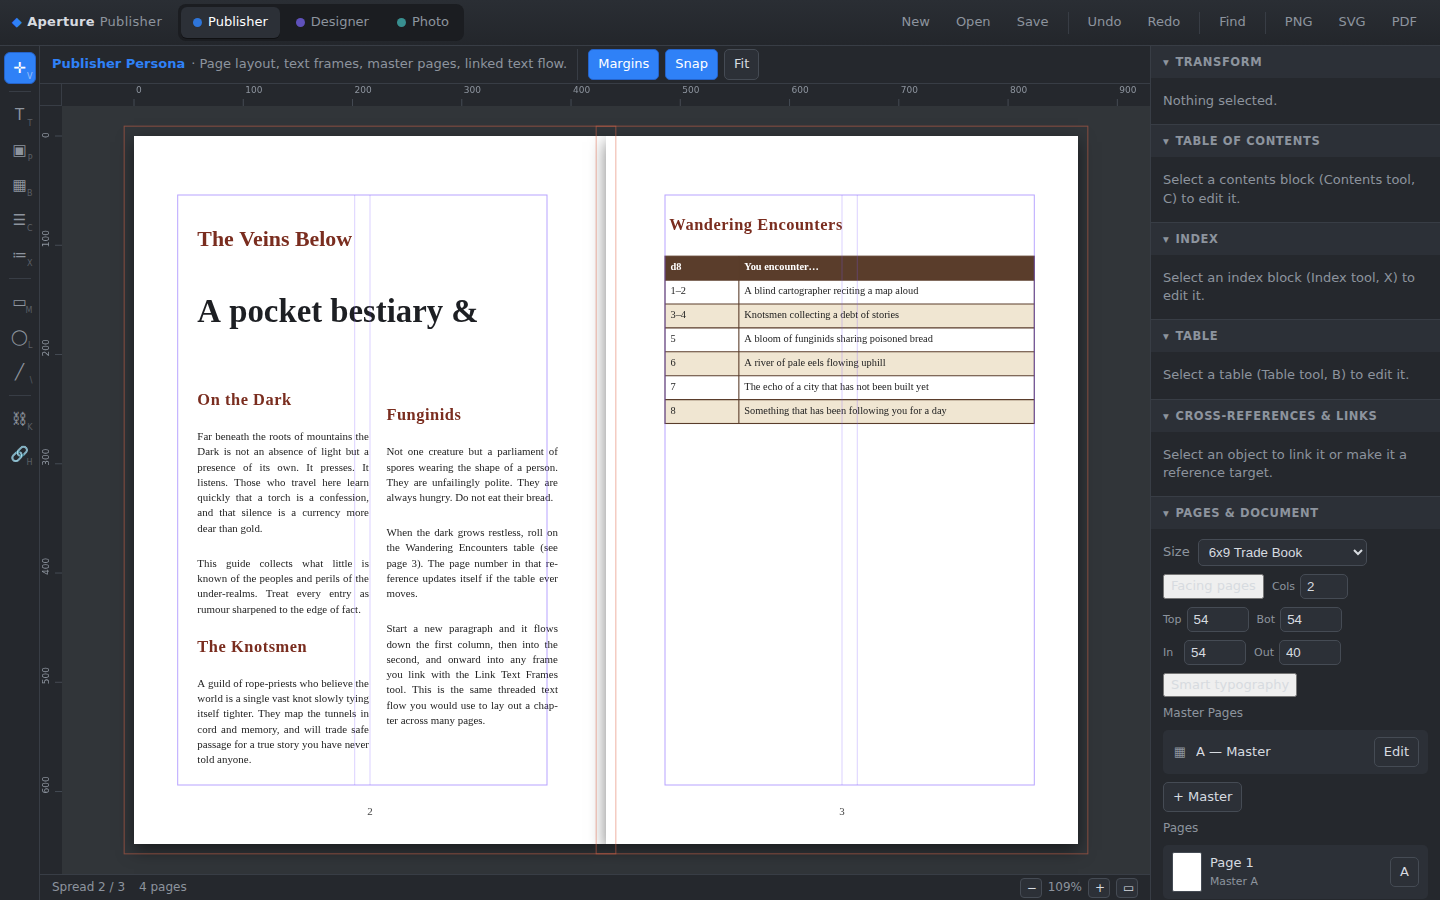
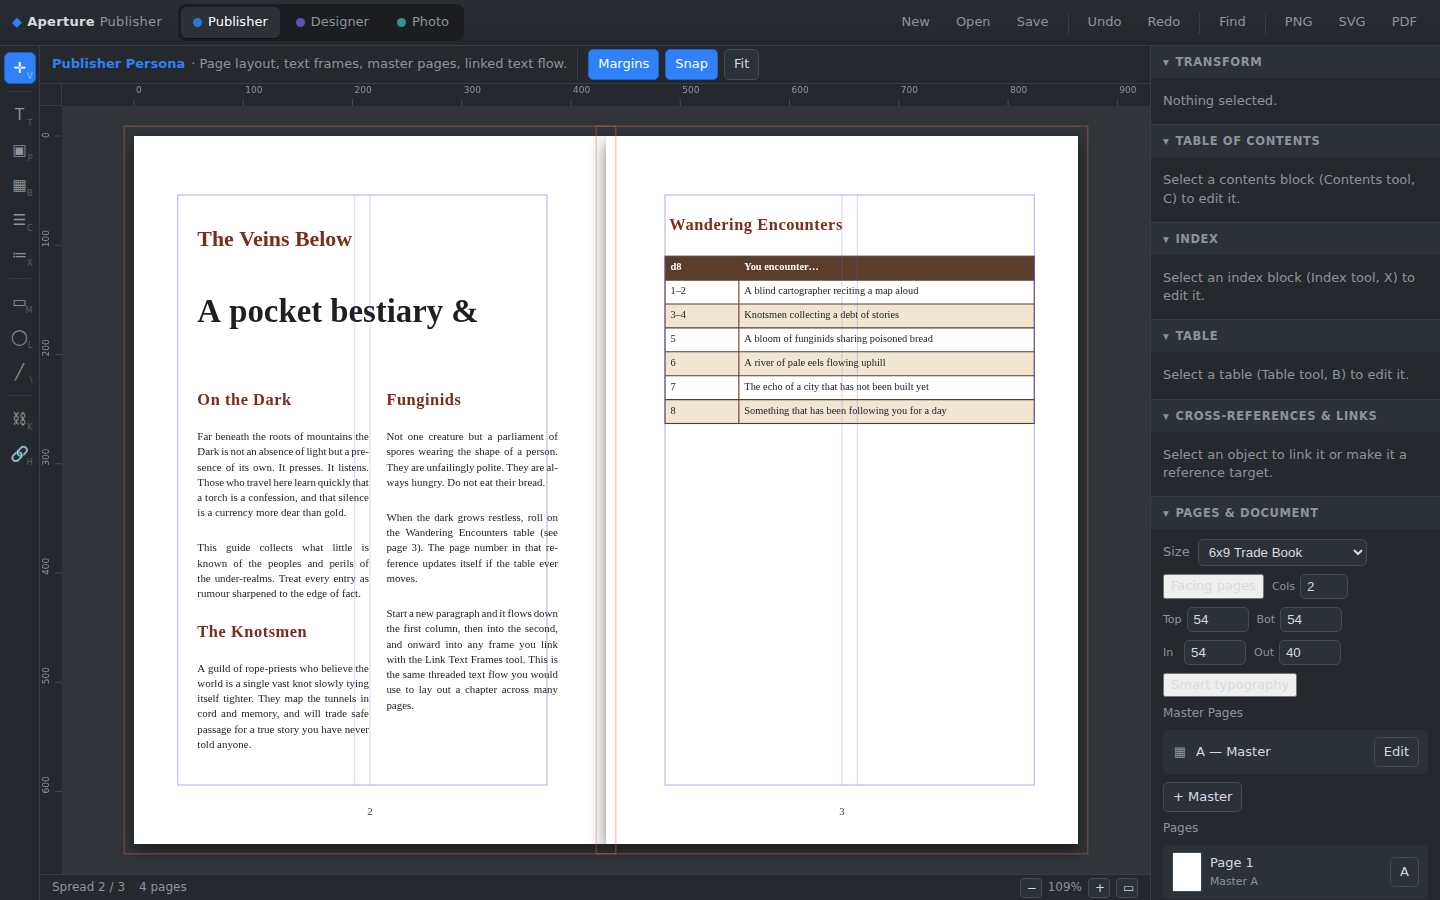
Knuth-Plass optimal line breaking for justified text
Replace the greedy line-at-a-time breaker with the Knuth-Plass algorithm
(TeX's paragraph breaker) for justified paragraphs:

- Model each paragraph as boxes / interword glue (with stretch & shrink) /
  penalties, offering hyphenation points as penalised optional breaks.
- Dynamic programming over feasible breakpoints with active nodes, minimising
  total demerits: badness (100*|r|^3 from the adjustment ratio) + line/hyphen
  penalties + double-hyphen and fitness-class demerits. An infinite final glue
  leaves the last line naturally ragged; an emergency path guarantees a result
  (never drops text) on unbreakable input.
- New pre-break-then-pour architecture: optimal lines are computed once at the
  head column measure, then flowed across columns/frames by height (uniform
  column width assumed, as columns within a frame always match).
- Ragged (left/center/right) and very long paragraphs use a fast greedy fallback
  producing the same line shape.

Applied everywhere (screen + PNG/SVG/PDF). Verified in Chromium: letter-for-
letter no text loss, ~2ms for the sample body, TOC/index still detected,
cross-frame overflow, greedy fallback, first-line indent, and all exports.

Claude-Session: https://claude.ai/code/session_01V9Hz9qwSWaNTftBnySXKLH

Changed region(s): [[0.125, 0.4356, 0.4062, 0.84]]

diff --git a/publisher/src/textlayout.js b/publisher/src/textlayout.js
@@ -208,92 +208,269 @@ function buildLine(words, from, carry, style, colW, hyphenate) {
   return { items, natural, spaceW, nextFrom: i, carry: newCarry, endsParagraph: i >= words.length && !newCarry };
 }
 
-// Cap on how far a justified space may stretch (× the natural space width),
-// so long thin columns don't develop rivers.
-const JUSTIFY_MAX_SPACE = 3.6;
-
-function positionLine(line, style, colW, isLast) {
-  const { items, natural, spaceW } = line;
-  const n = items.length;
-  let startX = 0, gap = spaceW;
-  if (style.align === 'center') startX = (colW - natural) / 2;
-  else if (style.align === 'right') startX = colW - natural;
-  else if (style.align === 'justify' && !isLast && n > 1) {
-    gap = spaceW + (colW - natural) / (n - 1);
-    if (gap > spaceW * JUSTIFY_MAX_SPACE) gap = spaceW * JUSTIFY_MAX_SPACE; // leave slightly short rather than gappy
-  }
-  const tokens = [];
-  let x = startX;
-  for (let k = 0; k < n; k++) { tokens.push({ text: items[k].text, x }); x += items[k].w + gap; }
-  return tokens;
+// Split a word into hyphenation fragments (they re-join to the word).
+function fragmentsOf(word, hyphenate) {
+  if (!(hyphenate && word.length >= 6 && /^[A-Za-z]+$/.test(word))) return [word];
+  const pts = hyphenatePoints(word);
+  if (!pts.length) return [word];
+  const frags = []; let prev = 0;
+  for (const p of pts) { frags.push(word.slice(prev, p)); prev = p; }
+  frags.push(word.slice(prev));
+  return frags;
 }
 
-// Lay out a whole thread chain (head holds the story text). Returns
-// { byFrame: { [id]: { lines } }, overflow: bool }.
+/* ---------- Knuth–Plass optimal line breaking ---------- */
+// Minimises total demerits over the whole paragraph (badness³ + penalties +
+// double-hyphen and fitness-class demerits) via DP over feasible breakpoints,
+// with hyphenation points offered as penalised optional breaks.
+const KPC = {
+  linePenalty: 10, hyphenPenalty: 50, doubleHyphen: 3000, fitnessDemerit: 100,
+  INF: 1e7, INF_BAD: 1e5, stretchRatio: 0.5, shrinkRatio: 1 / 3,
+};
+
+function knuthPlass(words, style, Lfun, hyphenate) {
+  setMeasureStyle(style);
+  const spaceW = mctx.measureText(' ').width;
+  const spaceY = spaceW * KPC.stretchRatio;
+  const spaceZ = spaceW * KPC.shrinkRatio;
+  const hyphenW = mctx.measureText('-').width;
+  const measure = (t) => mctx.measureText(t).width;
+
+  // sequence of boxes / glue / penalties
+  const seq = [];
+  words.forEach((word, j) => {
+    if (j > 0) seq.push({ t: 'glue', w: spaceW, y: spaceY, z: spaceZ });
+    fragmentsOf(word, hyphenate).forEach((frag, k) => {
+      if (k > 0) seq.push({ t: 'pen', w: hyphenW, p: KPC.hyphenPenalty, flag: true });
+      seq.push({ t: 'box', w: measure(frag), text: frag });
+    });
+  });
+  seq.push({ t: 'glue', w: 0, y: KPC.INF, z: 0 });   // final glue fills the last line
+  seq.push({ t: 'pen', w: 0, p: -KPC.INF, flag: false }); // forced break
+
+  const N = seq.length;
+  // prefix sums before item i (penalty width excluded — added only when broken)
+  const pW = [0], pY = [0], pZ = [0];
+  for (let i = 0; i < N; i++) {
+    const it = seq[i];
+    pW.push(pW[i] + (it.t === 'pen' ? 0 : it.w));
+    pY.push(pY[i] + (it.t === 'glue' ? it.y : 0));
+    pZ.push(pZ[i] + (it.t === 'glue' ? it.z : 0));
+  }
+  const isBreak = (i) => {
+    const it = seq[i];
+    if (it.t === 'pen') return it.p < KPC.INF;
+    if (it.t === 'glue') return i > 0 && seq[i - 1].t === 'box';
+    return false;
+  };
+  const fitnessOf = (r) => (r < -0.5 ? 0 : r < 0.5 ? 1 : r < 1 ? 2 : 3);
+
+  let active = [{ index: -1, line: 0, fitness: 1, demerits: 0, prev: null }];
+  let finalNode = null;
+
+  for (let b = 0; b < N; b++) {
+    if (!isBreak(b)) continue;
+    const it = seq[b];
+    const forced = it.t === 'pen' && it.p <= -KPC.INF;
+    const best = [null, null, null, null];
+    const bestD = [Infinity, Infinity, Infinity, Infinity];
+    let emergency = null, emergencyD = Infinity;
+    const survivors = [];
+
+    for (const a of active) {
+      const start = a.index + 1;
+      const endW = pW[b] + (it.t === 'pen' ? it.w : 0);
+      const lineW = endW - pW[start];
+      const lineY = pY[b] - pY[start];
+      const lineZ = pZ[b] - pZ[start];
+      const L = Lfun(a.line);
+      let r;
+      if (lineW < L) r = lineY > 0 ? (L - lineW) / lineY : KPC.INF;
+      else if (lineW > L) r = lineZ > 0 ? (L - lineW) / lineZ : -KPC.INF;
+      else r = 0;
+
+      if (r < -1 && !forced) {
+        // line too long even here — this node dies; remember as emergency
+        const base = KPC.linePenalty + KPC.INF_BAD;
+        const total = a.demerits + base * base;
+        if (total < emergencyD) { emergencyD = total; emergency = { index: b, line: a.line + 1, fitness: 1, demerits: total, prev: a }; }
+        continue; // do not keep `a`, do not spawn a normal candidate
+      }
+      if (!forced) survivors.push(a); // feasible so far — keep for later breakpoints
+
+      const badness = r < -1 ? KPC.INF_BAD : Math.min(KPC.INF_BAD, 100 * Math.abs(r) ** 3);
+      const base = KPC.linePenalty + badness;
+      const p = it.t === 'pen' ? it.p : 0;
+      let d;
+      if (forced) d = base * base;
+      else if (p >= 0) d = base * base + p * p;
+      else d = base * base - p * p;
+      if (it.flag && a.index >= 0 && seq[a.index].flag) d += KPC.doubleHyphen;
+      const fc = fitnessOf(r);
+      if (Math.abs(fc - a.fitness) > 1) d += KPC.fitnessDemerit;
+      const total = a.demerits + d;
+      if (total < bestD[fc]) { bestD[fc] = total; best[fc] = { index: b, line: a.line + 1, fitness: fc, demerits: total, prev: a }; }
+    }
+
+    if (forced) {
+      let bn = null;
+      for (let fc = 0; fc < 4; fc++) if (best[fc] && (!bn || best[fc].demerits < bn.demerits)) bn = best[fc];
+      finalNode = bn || emergency;
+      break;
+    }
+    for (let fc = 0; fc < 4; fc++) if (best[fc]) survivors.push(best[fc]);
+    active = survivors.length ? survivors : (emergency ? [emergency] : active);
+  }
+
+  // backtrack to breakpoint indices
+  const breaks = [];
+  for (let node = finalNode; node && node.index >= 0; node = node.prev) breaks.unshift(node.index);
+
+  // build lines
+  const lines = [];
+  let start = -1, lineNo = 0;
+  for (const b of breaks) {
+    const items = [];
+    let pendingSpace = false;
+    for (let i = start + 1; i < b; i++) {
+      const it = seq[i];
+      if (it.t === 'glue') pendingSpace = true;
+      else if (it.t === 'box') {
+        if (items.length && !pendingSpace) { const last = items[items.length - 1]; last.text += it.text; last.w += it.w; }
+        else items.push({ text: it.text, w: it.w, space: pendingSpace });
+        pendingSpace = false;
+      }
+    }
+    if (seq[b].t === 'pen' && seq[b].p > -KPC.INF && items.length) { const last = items[items.length - 1]; last.text += '-'; last.w += hyphenW; }
+    // adjustment ratio for this line
+    const startIdx = start + 1;
+    const endW = pW[b] + (seq[b].t === 'pen' ? seq[b].w : 0);
+    const lineW = endW - pW[startIdx];
+    const lineY = pY[b] - pY[startIdx], lineZ = pZ[b] - pZ[startIdx];
+    const L = Lfun(lineNo);
+    let r;
+    if (lineW < L) r = lineY > 0 ? (L - lineW) / lineY : 0;
+    else if (lineW > L) r = lineZ > 0 ? (L - lineW) / lineZ : 0;
+    else r = 0;
+    lines.push({ items, r, spaceW, spaceY, spaceZ, isLast: b === breaks[breaks.length - 1] });
+    start = b; lineNo++;
+  }
+  return lines;
+}
+
+// Greedy fallback (ragged text and over-long paragraphs), producing the same
+// line shape as knuthPlass so downstream positioning is uniform.
+function greedyBreak(words, style, Lfun, hyphenate) {
+  setMeasureStyle(style);
+  const spaceW = mctx.measureText(' ').width;
+  const out = [];
+  let wIndex = 0, carry = null;
+  while (wIndex < words.length || carry != null) {
+    const L = Lfun(out.length);
+    const line = buildLine(words, wIndex, carry, style, L, hyphenate);
+    const items = line.items.map((it, i) => ({ text: it.text, w: it.w, space: i > 0 }));
+    carry = line.carry; wIndex = line.nextFrom;
+    const isLast = line.endsParagraph;
+    out.push({ items, r: null, spaceW, isLast });
+    if (isLast) break;
+    if (!line.items.length && carry == null) break; // safety
+  }
+  return out;
+}
+
+// Break one paragraph into positioned lines (tokens x relative to the column,
+// including first-line indent). colW is the (uniform) column measure.
+function breakParagraph(para, colW, indent, hyphenate) {
+  const style = para.style;
+  const words = para.text.length ? para.text.split(/\s+/).filter(Boolean) : [];
+  const lineH = style.size * style.lineHeight;
+  const common = { lineH, size: style.size, font: fontString(style), color: style.color, tracking: style.tracking || 0 };
+  if (!words.length) return [{ spacer: true, ...common }];
+
+  const Lfun = (ln) => Math.max(1, colW - (ln === 0 ? indent : 0));
+  const justify = style.align === 'justify' && words.length <= 500;
+  const lines = justify ? knuthPlass(words, style, Lfun, hyphenate) : greedyBreak(words, style, Lfun, hyphenate);
+
+  setMeasureStyle(style);
+  const spaceW = mctx.measureText(' ').width;
+  return lines.map((ln, idx) => {
+    const off = idx === 0 ? indent : 0;
+    const tokens = [];
+    if (justify) {
+      const r = ln.r || 0;
+      let x = off;
+      for (const it of ln.items) {
+        if (it.space) x += spaceW + (r >= 0 ? r * ln.spaceY : r * ln.spaceZ);
+        tokens.push({ text: it.text, x }); x += it.w;
+      }
+    } else {
+      const natural = ln.items.reduce((s, it) => s + it.w + (it.space ? spaceW : 0), 0);
+      const L = Lfun(idx);
+      let x = off + (style.align === 'center' ? (L - natural) / 2 : style.align === 'right' ? (L - natural) : 0);
+      for (const it of ln.items) { if (it.space) x += spaceW; tokens.push({ text: it.text, x }); x += it.w; }
+    }
+    return { tokens, ...common, isLast: ln.isLast };
+  });
+}
+
+// Lay out a whole thread chain (head holds the story text). Optimised lines are
+// computed once at the head's column measure, then poured across the chain by
+// height. Returns { byFrame: { [id]: { lines } }, overflow: bool }.
 export function layoutStory(chain, doc) {
   const head = chain[0];
   const base = frameBaseStyle(head, doc);
   const anchorMap = buildAnchorPageMap(doc);
   const raw = resolveRefs(head.text || '', anchorMap).split('\n');
   const paragraphs = raw.map((l) => resolveParagraph(l, base, doc));
+  const hyphenate = head.hyphenate !== false;
+  const headColW = columnsOf(head)[0].w;
 
   const byFrame = {};
-  const hyphenate = head.hyphenate !== false;
-  let pIndex = 0, wIndex = 0, carry = null;
+  for (const frame of chain) byFrame[frame.id] = { lines: [] };
+
+  // pour cursor across frames/columns
+  let fi = 0, ci = 0;
+  let cols = columnsOf(chain[0]);
+  let cursorY = cols.length ? cols[0].y : 0;
   let overflow = false;
 
-  for (let f = 0; f < chain.length; f++) {
-    const frame = chain[f];
-    const cols = columnsOf(frame);
-    const lines = [];
-    byFrame[frame.id] = { lines };
-
-    for (let c = 0; c < cols.length && pIndex < paragraphs.length; c++) {
-      const col = cols[c];
-      let cursorY = col.y;
-      while (pIndex < paragraphs.length) {
-        const para = paragraphs[pIndex];
-        const style = para.style;
-        const words = para.text.length ? para.text.split(/\s+/).filter(Boolean) : [];
-        const lineH = style.size * style.lineHeight;
-
-        if (words.length === 0) { // blank line
-          if (cursorY + lineH > col.y + col.h) break;
-          cursorY += lineH;
-          pIndex++; wIndex = 0; carry = null;
-          continue;
-        }
-
-        const isParaStart = wIndex === 0 && carry == null;
-        const indent = isParaStart ? (style.firstLineIndent || 0) : 0;
-        const lineColW = Math.max(1, col.w - indent);
-        const line = buildLine(words, wIndex, carry, style, lineColW, hyphenate);
-        if (cursorY + lineH > col.y + col.h) break; // column full; carry/wIndex preserved for next column
-        let tokens = positionLine(line, style, lineColW, line.endsParagraph);
-        if (indent) tokens = tokens.map((t) => ({ text: t.text, x: t.x + indent }));
-        const baseline = cursorY + style.size * 0.82;
-        const placed = {
-          tokens, baseline, x: col.x, font: fontString(style),
-          color: style.color, tracking: style.tracking || 0,
-        };
-        // Tag the first line of a heading paragraph so the TOC can find it.
-        if (isParaStart && para.level) placed.heading = { level: para.level, text: para.text };
-        // Tag index marks to the first line so the index can find their page.
-        if (isParaStart && para.indexTerms && para.indexTerms.length) placed.indexTerms = para.indexTerms;
-        lines.push(placed);
-        cursorY += lineH;
-        carry = line.carry;
-
-        if (line.endsParagraph) {
-          cursorY += style.spaceAfter || 0;
-          pIndex++; wIndex = 0; carry = null;
-        } else {
-          wIndex = line.nextFrom;
-        }
+  const placeLine = (ln) => {
+    while (fi < chain.length) {
+      cols = columnsOf(chain[fi]);
+      if (ci >= cols.length) { fi++; ci = 0; if (fi < chain.length) cursorY = columnsOf(chain[fi])[0].y; continue; }
+      const col = cols[ci];
+      if (cursorY + ln.lineH > col.y + col.h) {
+        ci++;
+        if (ci < cols.length) cursorY = cols[ci].y;
+        else { fi++; ci = 0; if (fi < chain.length) cursorY = columnsOf(chain[fi])[0].y; }
+        continue;
       }
+      if (!ln.spacer) {
+        const placed = {
+          tokens: ln.tokens, baseline: cursorY + ln.size * 0.82, x: col.x,
+          font: ln.font, color: ln.color, tracking: ln.tracking,
+        };
+        if (ln.heading) placed.heading = ln.heading;
+        if (ln.indexTerms) placed.indexTerms = ln.indexTerms;
+        byFrame[chain[fi].id].lines.push(placed);
+      }
+      cursorY += ln.lineH + (ln.spaceAfter || 0);
+      return true;
     }
+    return false;
+  };
+
+  outer:
+  for (const para of paragraphs) {
+    const plines = breakParagraph(para, headColW, para.style.firstLineIndent || 0, hyphenate);
+    if (plines[0]) {
+      if (para.level) plines[0].heading = { level: para.level, text: para.text };
+      if (para.indexTerms && para.indexTerms.length) plines[0].indexTerms = para.indexTerms;
+    }
+    const lastLine = plines[plines.length - 1];
+    if (lastLine && !lastLine.spacer) lastLine.spaceAfter = para.style.spaceAfter || 0;
+    for (const ln of plines) { if (!placeLine(ln)) { overflow = true; break outer; } }
   }
-  if (pIndex < paragraphs.length) overflow = true;
   return { byFrame, overflow };
 }
 

diff --git a/publisher/README.md b/publisher/README.md
@@ -83,12 +83,15 @@ Switch with the buttons or keys **1 / 2 / 3**.
 
 ![Find and replace bar](docs/find.png)
 
-- **Typesetting** — justified body text is set with **hyphenation** (a
-  conservative English algorithm) and a **space-stretch cap**, so long thin
-  columns read cleanly instead of developing rivers. **Smart typography** turns
-  straight quotes curly and `--`/`---`/`...` into en/em dashes and an ellipsis, and
-  paragraphs support a **first-line indent** — all per-frame toggleable and applied
-  in every export.
+- **Typesetting** — justified body text is set with **Knuth–Plass optimal line
+  breaking** (the algorithm TeX uses): it minimises total demerits across each
+  whole paragraph — balancing space stretch, hyphenation and consecutive-hyphen
+  penalties, and fitness classes — so columns read evenly with no rivers, instead
+  of the greedy line-at-a-time approach. **Hyphenation** points feed the breaker as
+  penalised optional breaks. Ragged text falls back to a fast greedy breaker.
+  **Smart typography** turns straight quotes curly and `--`/`---`/`...` into en/em
+  dashes and an ellipsis, and paragraphs support a **first-line indent** — all
+  per-frame toggleable and applied in every export.
 
 ![Hyphenated, justified two-column body text](docs/typesetting.png)
 
